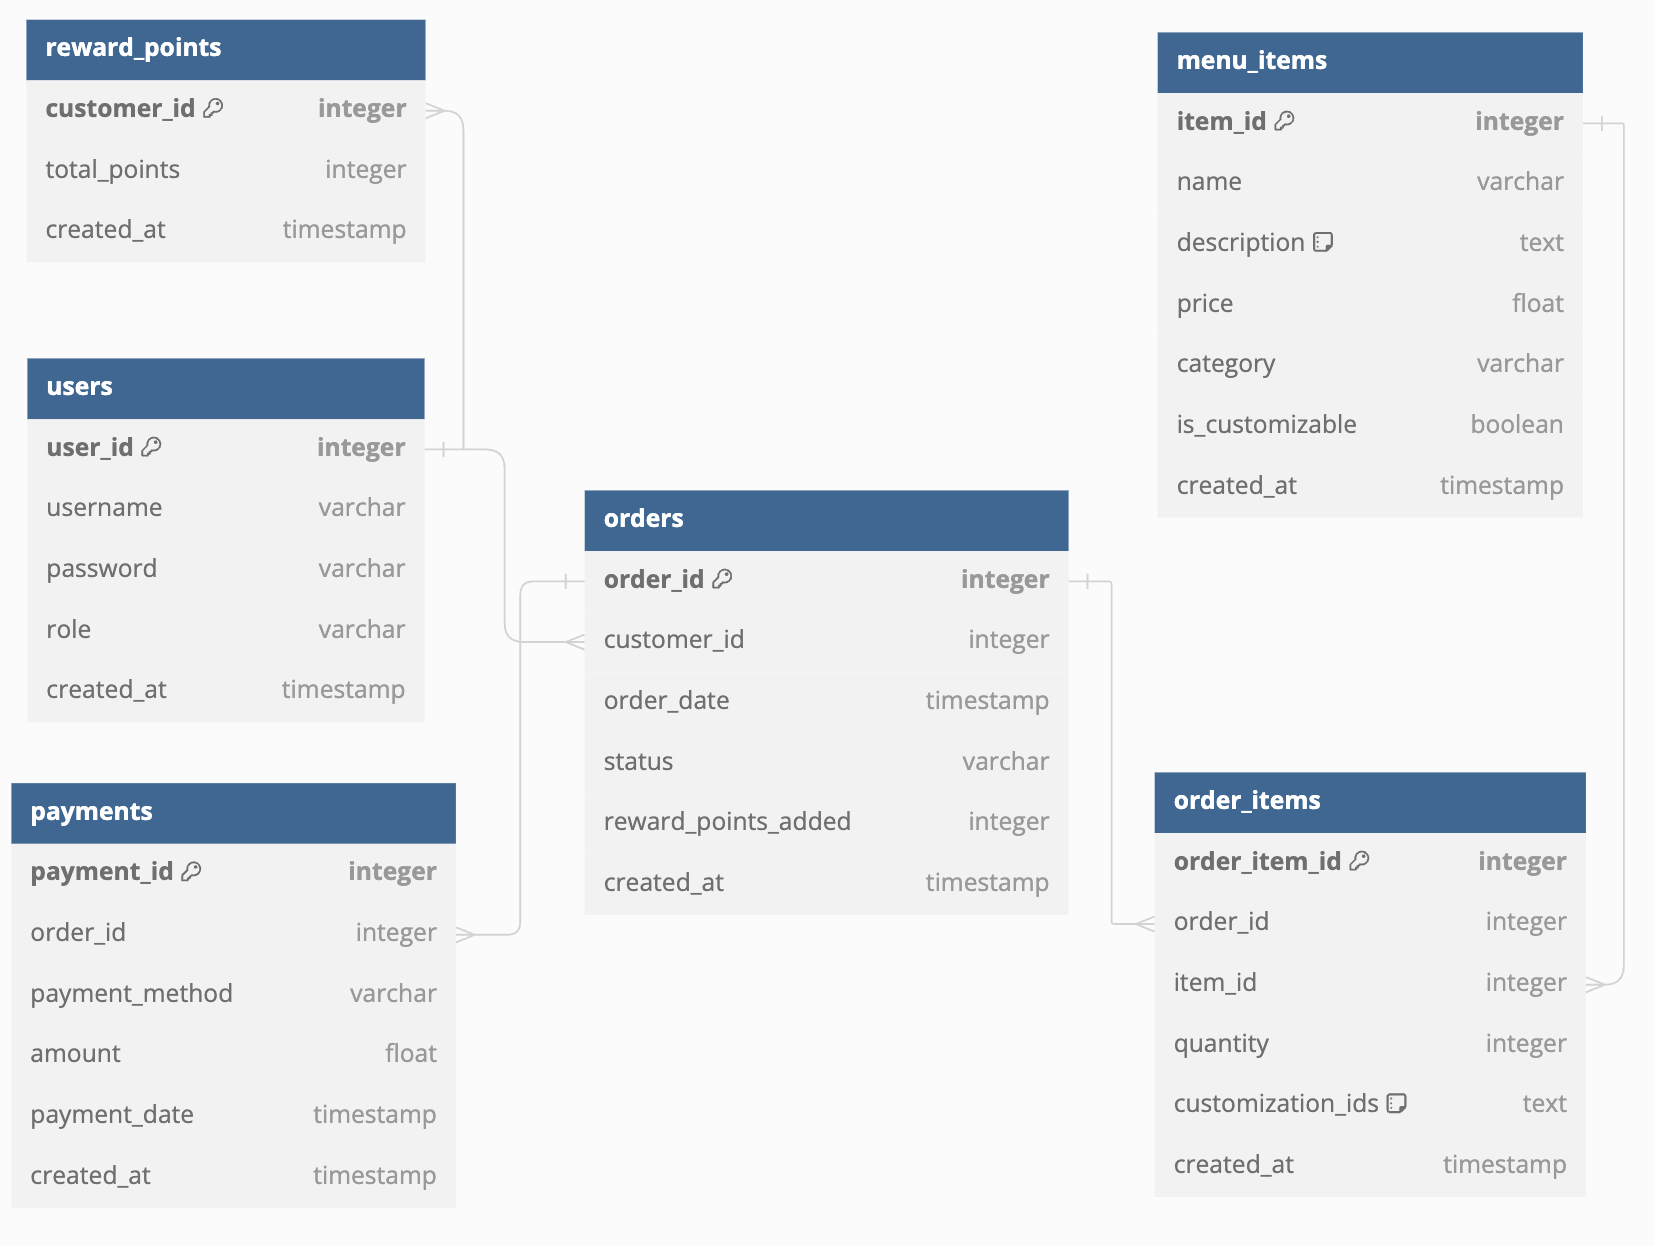
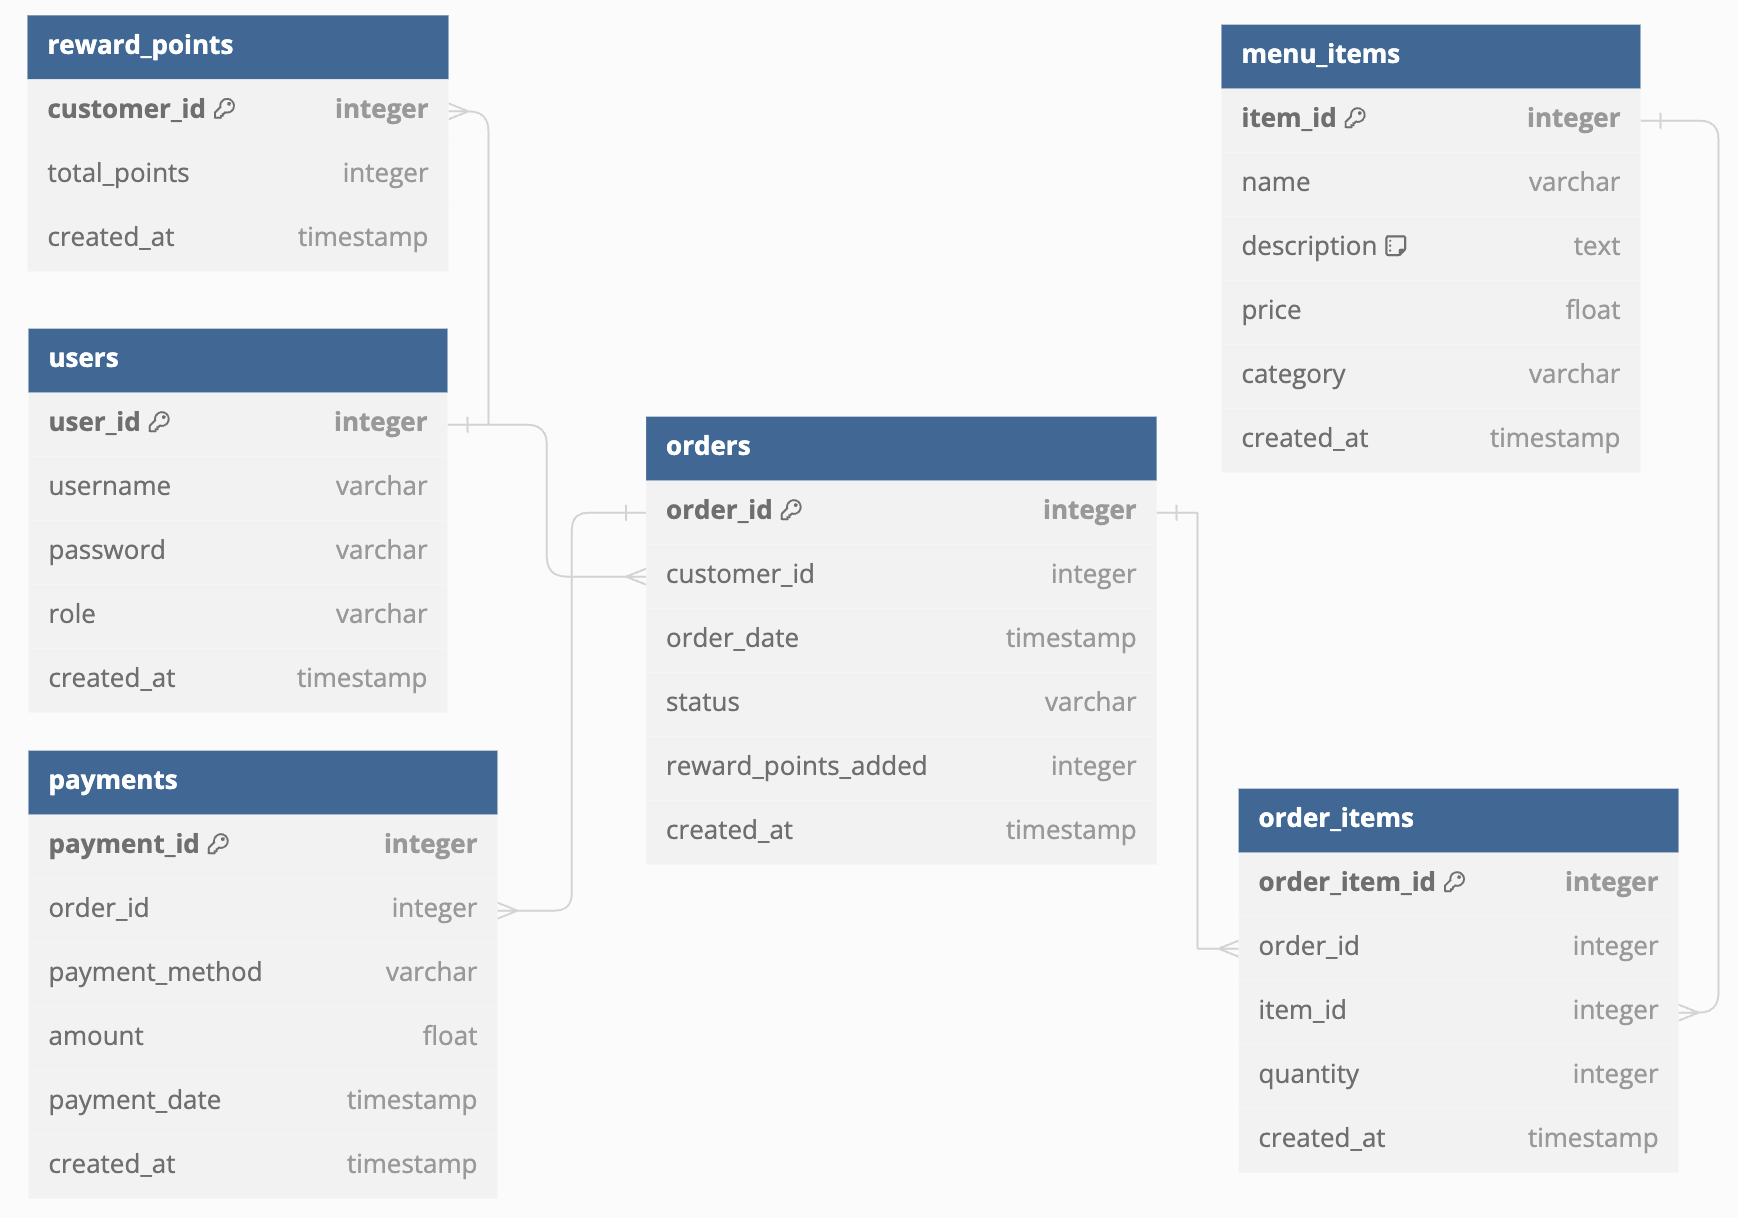
delete test item and new db diagram

diff --git a/k6_test/delete_test_menu_item.js b/k6_test/delete_test_menu_item.js
@@ -1,0 +1,50 @@
+import http from 'k6/http';
+import { check, sleep } from 'k6';
+
+export const options = {
+    vus: 1, 
+    duration: '120m', 
+};
+
+export default function () {
+    
+    const userId = 1;
+
+    
+    let getItemsRes = http.get('http://brewbucks-485861802.us-east-1.elb.amazonaws.com/api/v1/menu_items', {
+        headers: { 'Content-Type': 'application/json' },
+    });
+
+    check(getItemsRes, {
+        'items retrieval status is 200': (r) => r.status === 200,
+    });
+
+    let items = getItemsRes.json();
+    let itemsToDelete = items.slice(5); 
+
+    
+    itemsToDelete.forEach(item => {
+        let deleteData = JSON.stringify({
+            user_id: userId,
+            item_id: item.item_id,
+        });
+
+        
+        deleteItem(deleteData, item.name);
+    });
+}
+
+function deleteItem(deleteData, itemName) {
+    let deleteRes = http.del('http://brewbucks-485861802.us-east-1.elb.amazonaws.com/api/v1/menu_items', deleteData, {
+        headers: { 'Content-Type': 'application/json' },
+    });
+
+    
+    console.log(`Delete response for ${itemName}: ${deleteRes.status} ${deleteRes.body}`);
+
+    check(deleteRes, {
+        [`item deletion status for ${itemName} is 200`]: (r) => r.status === 200,
+    });
+
+   
+}

diff --git a/k6_test/create_order.js b/k6_test/create_order.js
@@ -3,9 +3,9 @@ import { check, sleep } from 'k6';
 
 export const options = {
     stages: [
-        { duration: '2m', target: 1000 }, // Ramp-up to 20 users over 1 minute
-        { duration: '2m', target: 2500 }, // Stay at 20 users for 2 minutes
-        { duration: '2m', target: 0 },  // Ramp-down to 0 users over 1 minute
+        { duration: '2m', target: 1000 }, // Ramp-up to 2000 users over 1 minute
+        { duration: '2m', target: 2500 }, // Stay at 2500 users for 2 minutes
+        { duration: '2m', target: 0 },  // Ramp-down to 0 users over 2 minute
     ],
 };
 

diff --git a/backend/brewbucks/tests/test_views.py b/backend/brewbucks/tests/test_views.py
@@ -167,10 +167,10 @@ def test_create_menu(client):
 
 
 def test_create_menu_item(client, sample_user):
-    # 首先创建测试菜单项
+    
     test_create_menu(client)
 
-    # 新的菜单项数据
+    
     item_data = {
         "user_id": sample_user.user_id,
         "name": "Flat White",
@@ -179,7 +179,7 @@ def test_create_menu_item(client, sample_user):
         "orderable": True
     }
     
-    # 创建新的菜单项
+    
     response = client.post("/api/v1/menu_items", json=item_data)
     assert response.status_code == 201
     assert response.json["name"] == item_data["name"]
@@ -187,7 +187,7 @@ def test_create_menu_item(client, sample_user):
     assert response.json["price"] == item_data["price"]
     assert response.json["orderable"] is item_data["orderable"]
 
-    # 验证新的菜单项是否确实被创建
+    
     response = client.get("/api/v1/menu_items")
     assert response.status_code == 200
     menu_items = response.json
@@ -205,15 +205,15 @@ def test_get_menu_items(client):
 
 
 def test_update_menu_item(client, sample_user):
-    # 首先创建测试菜单项
+    
     test_create_menu(client)
 
-    # 获取菜单项，以便获取要更新的项目ID
+   
     response = client.get("/api/v1/menu_items")
     assert response.status_code == 200
     menu_items = response.json
 
-    # 假设要更新 Espresso 项目
+    
     espresso_item = next(item for item in menu_items if item["name"] == "Espresso")
     update_data = {
         "user_id": sample_user.user_id,
@@ -223,7 +223,7 @@ def test_update_menu_item(client, sample_user):
         "orderable": True
     }
 
-    # 进行更新操作
+   
     response = client.put(f"/api/v1/menu_items/{espresso_item['item_id']}", json=update_data)
     assert response.status_code == 200
     assert response.json["name"] == "Updated Espresso"
@@ -231,7 +231,7 @@ def test_update_menu_item(client, sample_user):
     assert response.json["price"] == 3.0
     assert response.json["orderable"] is True
 
-    # 验证项目确实被更新
+    
     response = client.get(f"/api/v1/menu_items/{espresso_item['item_id']}")
     assert response.status_code == 200
     updated_item = response.json
